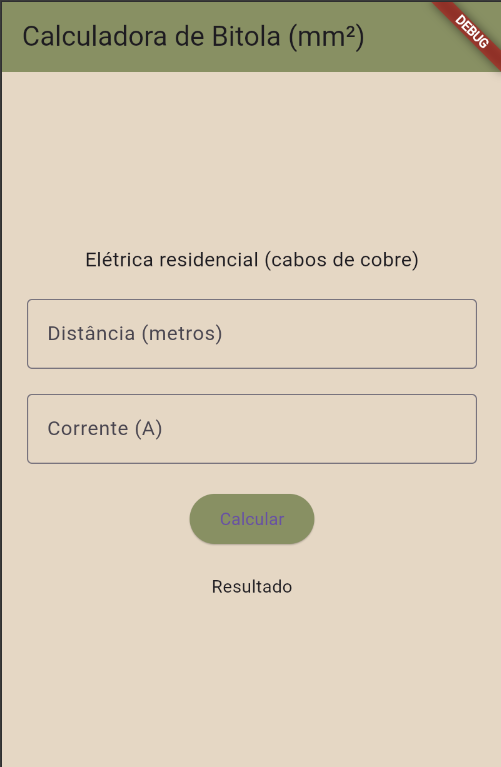
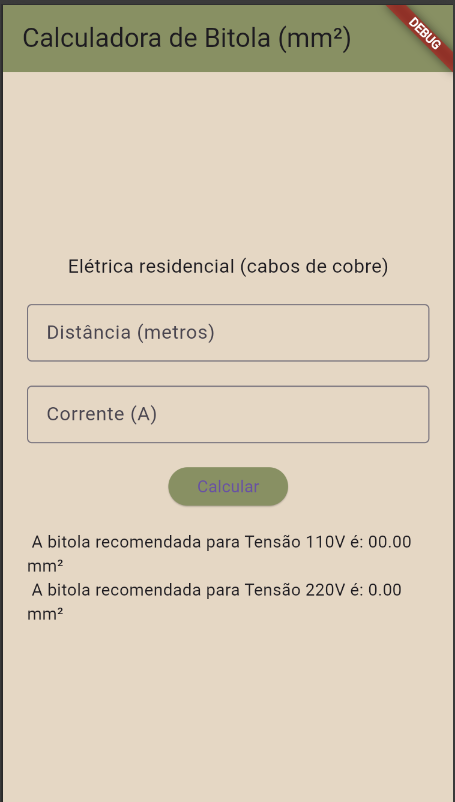
atualização

diff --git a/lib/main.dart b/lib/main.dart
@@ -26,8 +26,8 @@ class _MainAppState extends State<MainApp> {
       bitola220 = (2 * corrente * distancia) / 510.4;
 
       resultado =
-          "Bitola 110V: ${bitola110.toStringAsFixed(2)} mm²\n"
-          "Bitola 220V: ${bitola220.toStringAsFixed(2)} mm²";
+          " A bitola recomendada para Tensão 110V é: ${bitola110.toStringAsFixed(2)} mm²\n"
+          " A bitola recomendada para Tensão 220V é: ${bitola220.toStringAsFixed(2)} mm²";
     });
 
     showDialog(
@@ -88,7 +88,7 @@ class _MainAppState extends State<MainApp> {
 
                 TextField(
                   decoration: const InputDecoration(
-                    labelText: "Corrente (A)",
+                    hintText: "Corrente (A)",
                     border: OutlineInputBorder(),
                   ),
                   keyboardType: TextInputType.number,
@@ -109,7 +109,10 @@ class _MainAppState extends State<MainApp> {
 
                 const SizedBox(height: 20),
 
-                Text(resultado),
+                Text(
+                  "A bitola recomendada para Tensão 110V é: ${bitola110.toStringAsFixed(2)} mm²\n"
+                  "A bitola recomendada para Tensão 220V é: ${bitola220.toStringAsFixed(2)} mm²",
+                ),
               ],
             ),
           ),
